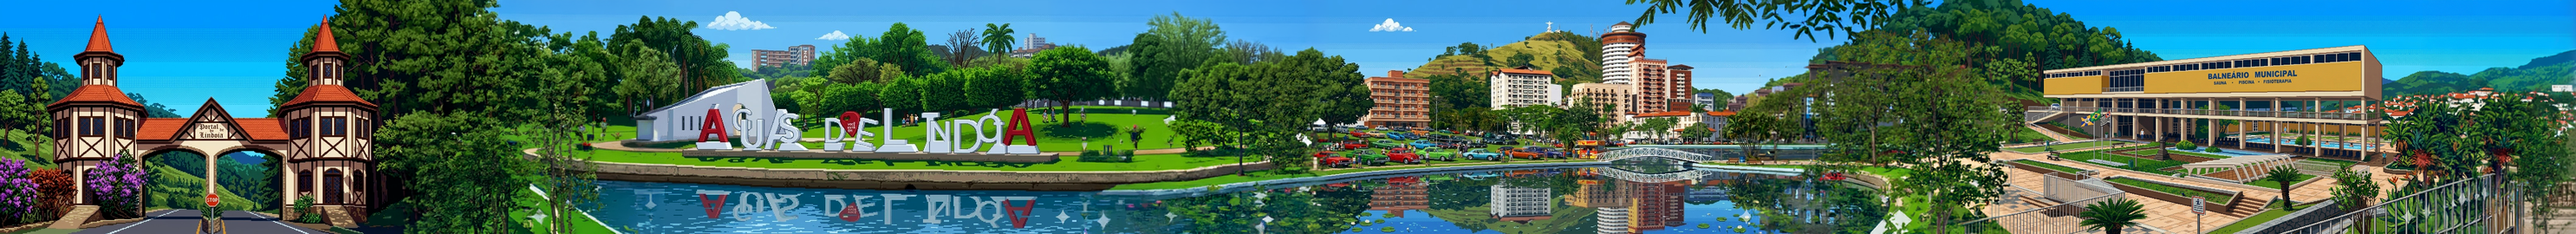
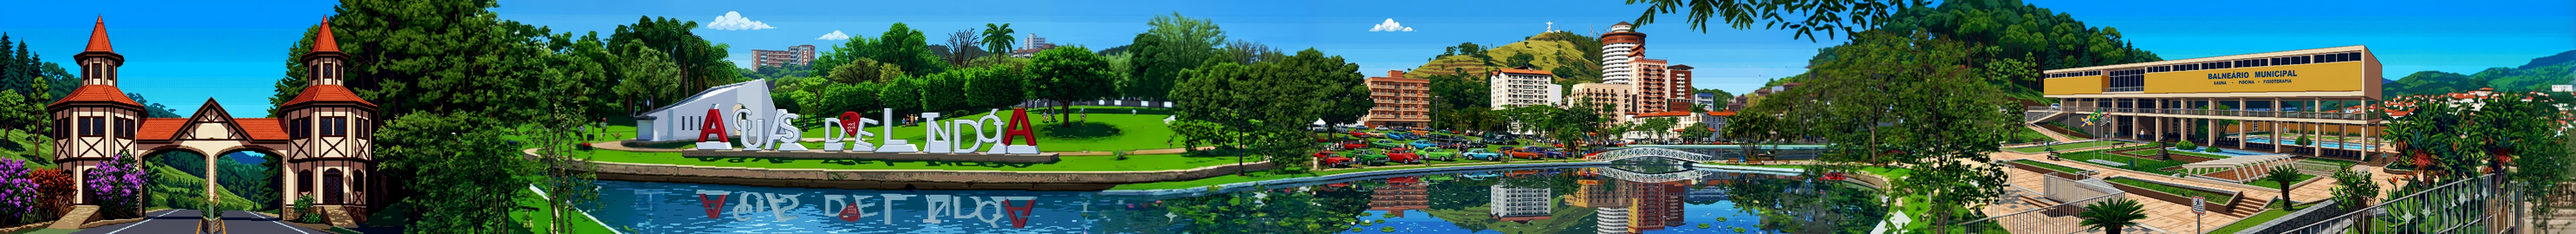
Spawn de capivaras por timer, velocidade crescente e ajustes visuais
- Capivaras nascem por timer (3.5s→1.5s) independente do movimento da Marie
- Velocidade cresce até 80% acima do base ao longo da fase
- Remove check de posição: capivaras aparecem até o tempo acabar
- Contagem regressiva: vermelho e bip nos últimos 10s (era 20s)
- Placar reduzido de 6 para 5 dígitos (máximo teórico ~60.000 pts)
- Garrafa fase 2: scale 0.48 para igualar altura visual da fase 1
- Atualiza plano de fundo da fase 2

diff --git a/scenes/GameScene.js b/scenes/GameScene.js
@@ -46,13 +46,12 @@ class GameScene extends Phaser.Scene {
 
         // ── Capivaras ────────────────────────────────────────────────────────
         this.capybaras = this.physics.add.group();
-        this.nextCapyX = 380;
 
         // ── Garrafa (objetivo final) ──────────────────────────────────────────
         // Fase 1: garrafa antiga (316×718); Fase 2: garrafa Lindoya moderna (105×240)
         const bottleKey   = this.level === 2 ? 'bottle2' : 'bottle';
         const bottleH     = this.level === 2 ? 240 : 718;
-        const bottleScale = this.level === 2 ? 0.45 : 0.15;
+        const bottleScale = this.level === 2 ? 0.48 : 0.15;
         const bottleX     = this._levelWidth - 80;
         const bottleY     = GROUND_Y - (bottleH * bottleScale) / 2 + 6;
         this.bottle = this.physics.add.staticSprite(bottleX, bottleY, bottleKey)
@@ -96,13 +95,15 @@ class GameScene extends Phaser.Scene {
                 if (this.dead) return;
                 this.gameTime--;
                 this.events.emit('timeChanged', this.gameTime);
-                if (this.gameTime <= 0) this.triggerGameOver();
+                if (this.gameTime <= 0) { this.triggerGameOver(); return; }
+                if (this.gameTime <= 10) this.sndTick();
             },
             loop: true
         });
 
         this.scene.launch('HUDScene', { gameScene: this, level: this.level });
         this._showPhaseAnnouncement();
+        this._scheduleNextCapy();
     }
 
     update() {
@@ -132,16 +133,6 @@ class GameScene extends Phaser.Scene {
         // ── Animação ─────────────────────────────────────────────────────────
         if (vx !== 0) this.marie.anims.play('marie-walk', true);
         else          this.marie.anims.play('marie-idle', true);
-
-        // ── Gerar capivaras continuamente a partir da borda direita da câmera ──
-        // Spawna logo além do que é visível; para só na zona de 300px antes da garrafa.
-        const spawnX = cam + this.scale.width + 80;
-        if (spawnX > this.nextCapyX) {
-            if (spawnX < this._levelWidth - 300) {
-                this.spawnCapybara(spawnX);
-            }
-            this.nextCapyX = spawnX + Phaser.Math.Between(280, 460);
-        }
 
         // ── Detectar passagem limpa + limpar capivaras fora da tela ──────────
         const marieOnGround = this.marie.body.blocked.down || this.marie.body.touching.down;
@@ -180,11 +171,33 @@ class GameScene extends Phaser.Scene {
         }
     }
 
+    // ── Agendar próxima capivara por timer (intervalo e velocidade crescem com o tempo) ─
+    _scheduleNextCapy() {
+        const elapsed  = TIME_START - this.gameTime;
+        const progress = elapsed / TIME_START;  // 0 no início, 1 no fim
+        // Intervalo diminui de 3500ms para 1500ms ao longo da fase
+        const baseDelay = Math.max(1500, 3500 - 2000 * progress);
+        const delay = baseDelay + Phaser.Math.Between(-400, 400);
+
+        this.time.delayedCall(delay, () => {
+            if (this.dead) return;
+            const cam    = this.cameras.main.scrollX;
+            const spawnX = cam + this.scale.width + 60;
+            this.spawnCapybara(spawnX);
+            this._scheduleNextCapy();
+        });
+    }
+
     // ── Capivara ──────────────────────────────────────────────────────────────
     spawnCapybara(x) {
+        // Velocidade cresce até 80% acima do base conforme o tempo passa
+        const elapsed  = TIME_START - this.gameTime;
+        const progress = elapsed / TIME_START;
+        const speed    = this._capySpeed * (1 + 0.8 * progress);
+
         const capy = this.capybaras.create(x, GROUND_Y - 30, 'capy_walk1')
             .setScale(CAPY_SCALE)
-            .setVelocityX(-this._capySpeed)
+            .setVelocityX(-speed)
             .setDepth(10);
 
         capy.body.setSize(276 * 0.72, 200 * 0.68);
@@ -399,6 +412,19 @@ class GameScene extends Phaser.Scene {
                 g.gain.exponentialRampToValueAtTime(0.001, ac.currentTime + d + 0.18);
                 o.start(ac.currentTime + d); o.stop(ac.currentTime + d + 0.20);
             });
+        });
+    }
+
+    sndTick() {
+        // Bip agudo e curto para contagem regressiva dos últimos 10 segundos
+        this._sfx(ac => {
+            const o = ac.createOscillator(), g = ac.createGain();
+            o.connect(g); g.connect(ac.destination);
+            o.type = 'square';
+            o.frequency.setValueAtTime(880, ac.currentTime);
+            g.gain.setValueAtTime(0.10, ac.currentTime);
+            g.gain.exponentialRampToValueAtTime(0.001, ac.currentTime + 0.06);
+            o.start(ac.currentTime); o.stop(ac.currentTime + 0.06);
         });
     }
 

diff --git a/scenes/HUDScene.js b/scenes/HUDScene.js
@@ -14,7 +14,7 @@ class HUDScene extends Phaser.Scene {
 
         // ── Score + estrela de acertos (coluna esquerda) ─────────────────────
         this.add.text(8, 4, 'PONTOS', style);
-        this.scoreTxt = this.add.text(8, 14, '000000', style);
+        this.scoreTxt = this.add.text(8, 14, '00000', style);
         // ★N fica logo abaixo da pontuação, mesma coluna
         this.comboTxt = this.add.text(8, 24, '★0', {
             fontFamily: 'monospace', fontSize: '11px', color: '#888888',
@@ -35,7 +35,7 @@ class HUDScene extends Phaser.Scene {
 
         // ── Ouvir eventos do GameScene ────────────────────────────────────────
         this.gameScene.events.on('scoreChanged', (v) => {
-            this.scoreTxt.setText(String(v).padStart(6, '0'));
+            this.scoreTxt.setText(String(v).padStart(5, '0'));
         });
 
         this.gameScene.events.on('livesChanged', (v) => {
@@ -44,7 +44,7 @@ class HUDScene extends Phaser.Scene {
 
         this.gameScene.events.on('timeChanged', (v) => {
             this.timeTxt.setText(this._fmt(v));
-            this.timeTxt.setColor(v <= 20 ? '#ff4444' : '#ffffff');
+            this.timeTxt.setColor(v <= 10 ? '#ff4444' : '#ffffff');
         });
 
         this.gameScene.events.on('comboChanged', (v) => {

diff --git a/index.html b/index.html
@@ -64,10 +64,10 @@
     <!-- cache-bust para garantir refresh quando mexer nos arquivos -->
     <script src="scenes/BootScene.js?v=20260315"></script>
     <script src="scenes/TitleScene.js?v=20260315"></script>
-    <script src="scenes/GameScene.js?v=20260315"></script>
-    <script src="scenes/HUDScene.js?v=20260315"></script>
-    <script src="scenes/GameOverScene.js?v=20260315"></script>
-    <script src="scenes/WinScene.js?v=20260315"></script>
+    <script src="scenes/GameScene.js?v=20260316"></script>
+    <script src="scenes/HUDScene.js?v=20260317"></script>
+    <script src="scenes/GameOverScene.js?v=20260317"></script>
+    <script src="scenes/WinScene.js?v=20260317"></script>
     <script src="game.js?v=20260301"></script>
 </body>
 </html>

diff --git a/scenes/GameOverScene.js b/scenes/GameOverScene.js
@@ -29,7 +29,7 @@ class GameOverScene extends Phaser.Scene {
             strokeThickness: 4
         });
 
-        txt(W/2, 110, `PONTUAÇÃO   ${String(this.finalScore).padStart(6, '0')}`, {
+        txt(W/2, 110, `PONTUAÇÃO   ${String(this.finalScore).padStart(5, '0')}`, {
             fontSize: '14px',
             color: '#ffffff',
             stroke: '#000000',

diff --git a/scenes/WinScene.js b/scenes/WinScene.js
@@ -31,7 +31,7 @@ class WinScene extends Phaser.Scene {
             strokeThickness: 4
         });
 
-        txt(W/2, 100, `PONTUAÇÃO   ${String(this.finalScore).padStart(6, '0')}`, {
+        txt(W/2, 100, `PONTUAÇÃO   ${String(this.finalScore).padStart(5, '0')}`, {
             fontSize: '14px',
             color: '#ffffff',
             stroke: '#000000',
